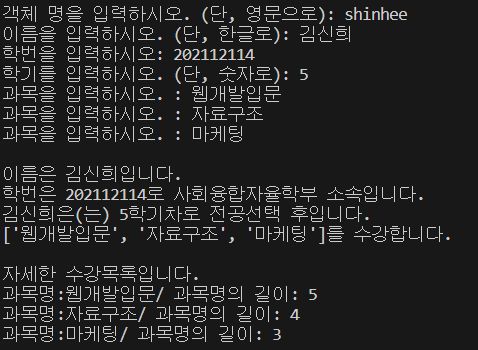
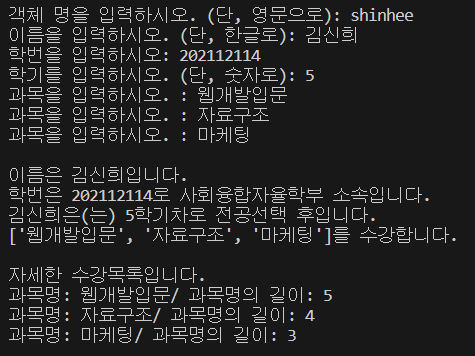
6주차 Assignment - 김신희

Changed region(s): [[0.0, 0.0, 0.8842, 0.4286], [0.0, 0.4571, 0.9432, 0.7143], [0.0, 0.7429, 0.7074, 0.9714]]

diff --git a/kimshinhee/class_assignment.py b/kimshinhee/class_assignment.py
@@ -41,13 +41,13 @@ class Student: #Student 클래스 생성
 def subject_info(**sub_dict): #딕셔너리 언패킹을 사용한 함수
     print("자세한 수강목록입니다.")
     for subject, sub_len in sub_dict.items(): #딕셔너리의 요소를 반복하여 key, value출력
-        print(f'과목명:{subject}/ 과목명의 길이: {sub_len}')
+        print(f'과목명: {subject}/ 과목명의 길이: {sub_len}')
 
 while True: #무한반복
     class_name = input("객체 명을 입력하시오. (단, 영문으로): ") #객체 명 입력받기
     if class_name == "종료": #무한루프를 멈출 조건: "종료"입력
         break
-    #객체 송성에 저장할 데이터 입력받기
+    #객체 속성에 저장할 데이터 입력받기
     name = input("이름을 입력하시오. (단, 한글로): ")
     schoolNum = input("학번을 입력하시오: ")
     semester = int(input("학기를 입력하시오. (단, 숫자로): ")) #숫자로만 입력받을 것이기에 int()로 받기
